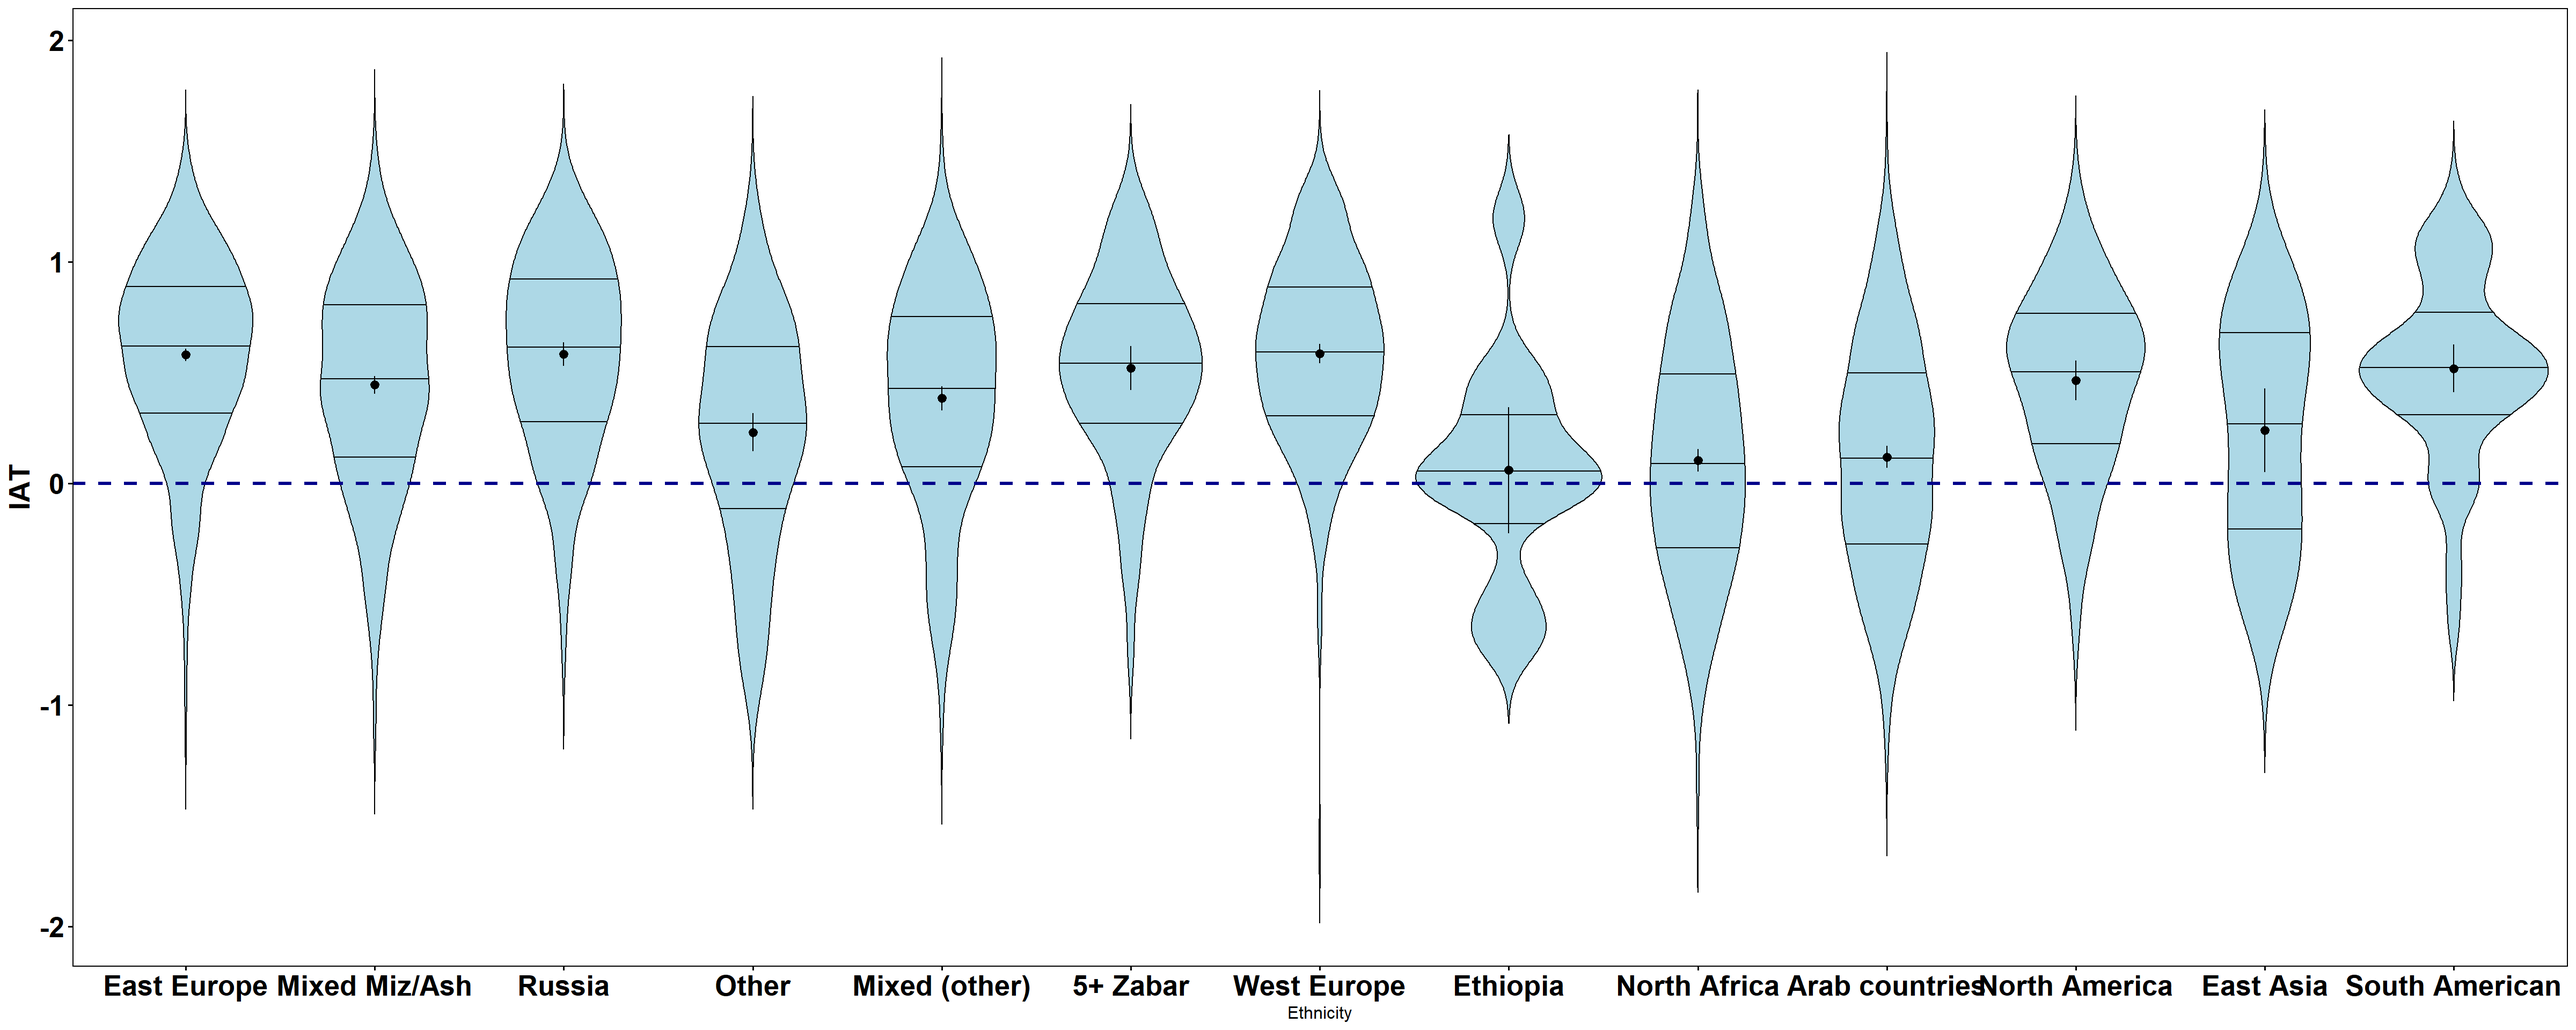
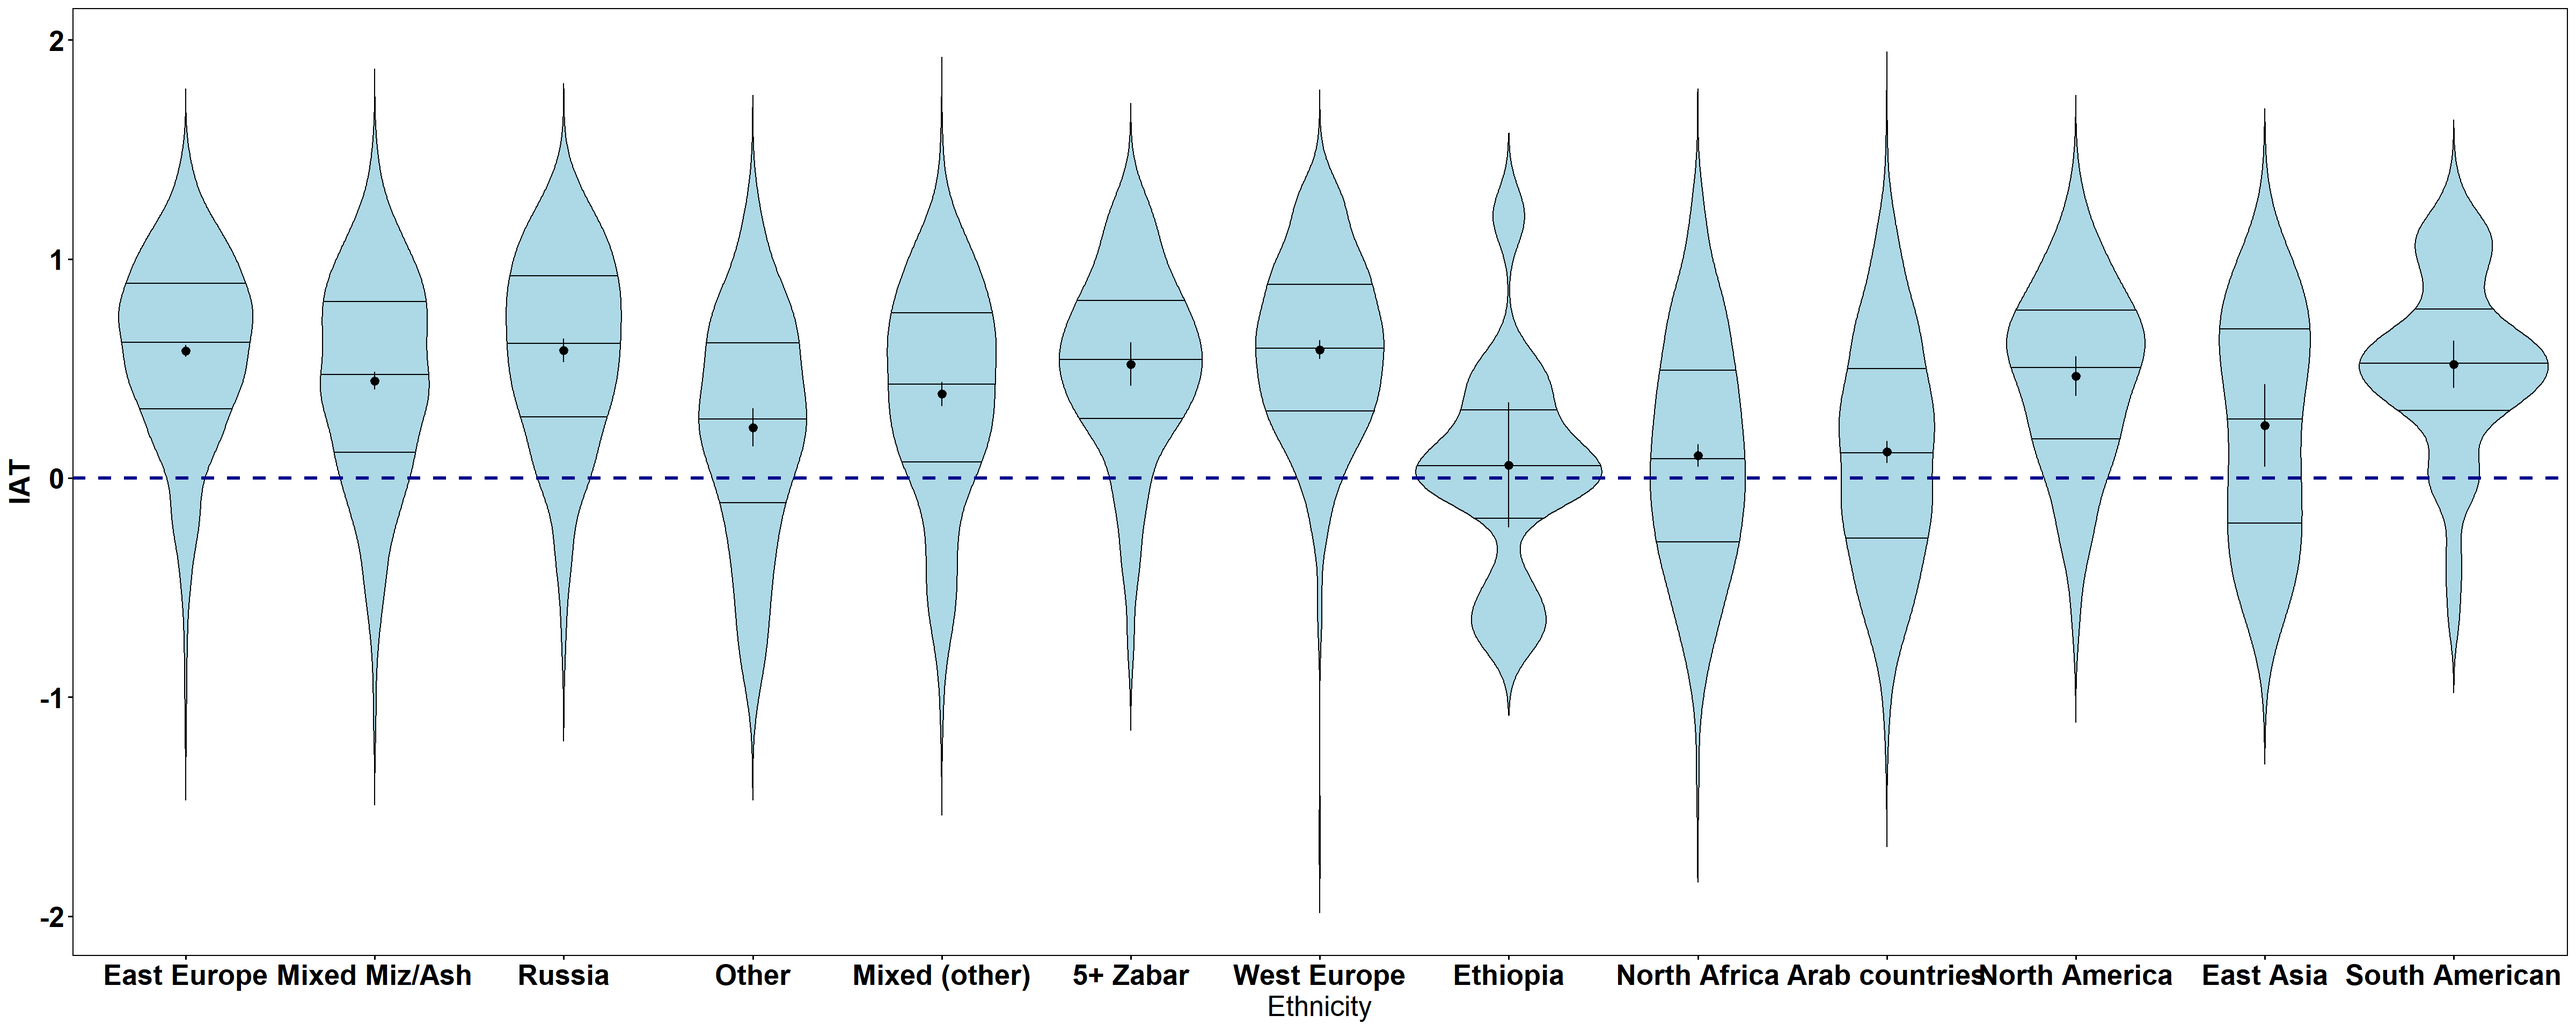
update plots

diff --git a/content/post/2020-05-20-biases-in-israel.en.html b/content/post/2020-05-20-biases-in-israel.en.html
@@ -456,7 +456,7 @@ pp &lt;- pp + geom_hline(yintercept = 0, linetype = &quot;dashed&quot;, color = 
 
 pp &lt;- pp + font(&quot;title&quot;, size = 20, color = &quot;black&quot;, face = &quot;bold&quot;) + 
     font(&quot;legend.text&quot;, size = 20, color = &quot;black&quot;, face = &quot;bold&quot;) + 
-    font(&quot;xlab&quot;, size = 12, color = &quot;black&quot;) + font(&quot;ylab&quot;, size = 20, 
+    font(&quot;xlab&quot;, size = 20, color = &quot;black&quot;) + font(&quot;ylab&quot;, size = 20, 
     color = &quot;black&quot;, face = &quot;bold&quot;) + font(&quot;xy.text&quot;, size = 20, 
     color = &quot;black&quot;, face = &quot;bold&quot;)
 pp &lt;- pp + theme(legend.position = &quot;none&quot;)

diff --git a/public/post/biases-in-israel/index.html b/public/post/biases-in-israel/index.html
@@ -693,7 +693,7 @@ pp &lt;- pp + geom_hline(yintercept = 0, linetype = &quot;dashed&quot;, color = 
 
 pp &lt;- pp + font(&quot;title&quot;, size = 20, color = &quot;black&quot;, face = &quot;bold&quot;) + 
     font(&quot;legend.text&quot;, size = 20, color = &quot;black&quot;, face = &quot;bold&quot;) + 
-    font(&quot;xlab&quot;, size = 12, color = &quot;black&quot;) + font(&quot;ylab&quot;, size = 20, 
+    font(&quot;xlab&quot;, size = 20, color = &quot;black&quot;) + font(&quot;ylab&quot;, size = 20, 
     color = &quot;black&quot;, face = &quot;bold&quot;) + font(&quot;xy.text&quot;, size = 20, 
     color = &quot;black&quot;, face = &quot;bold&quot;)
 pp &lt;- pp + theme(legend.position = &quot;none&quot;)
